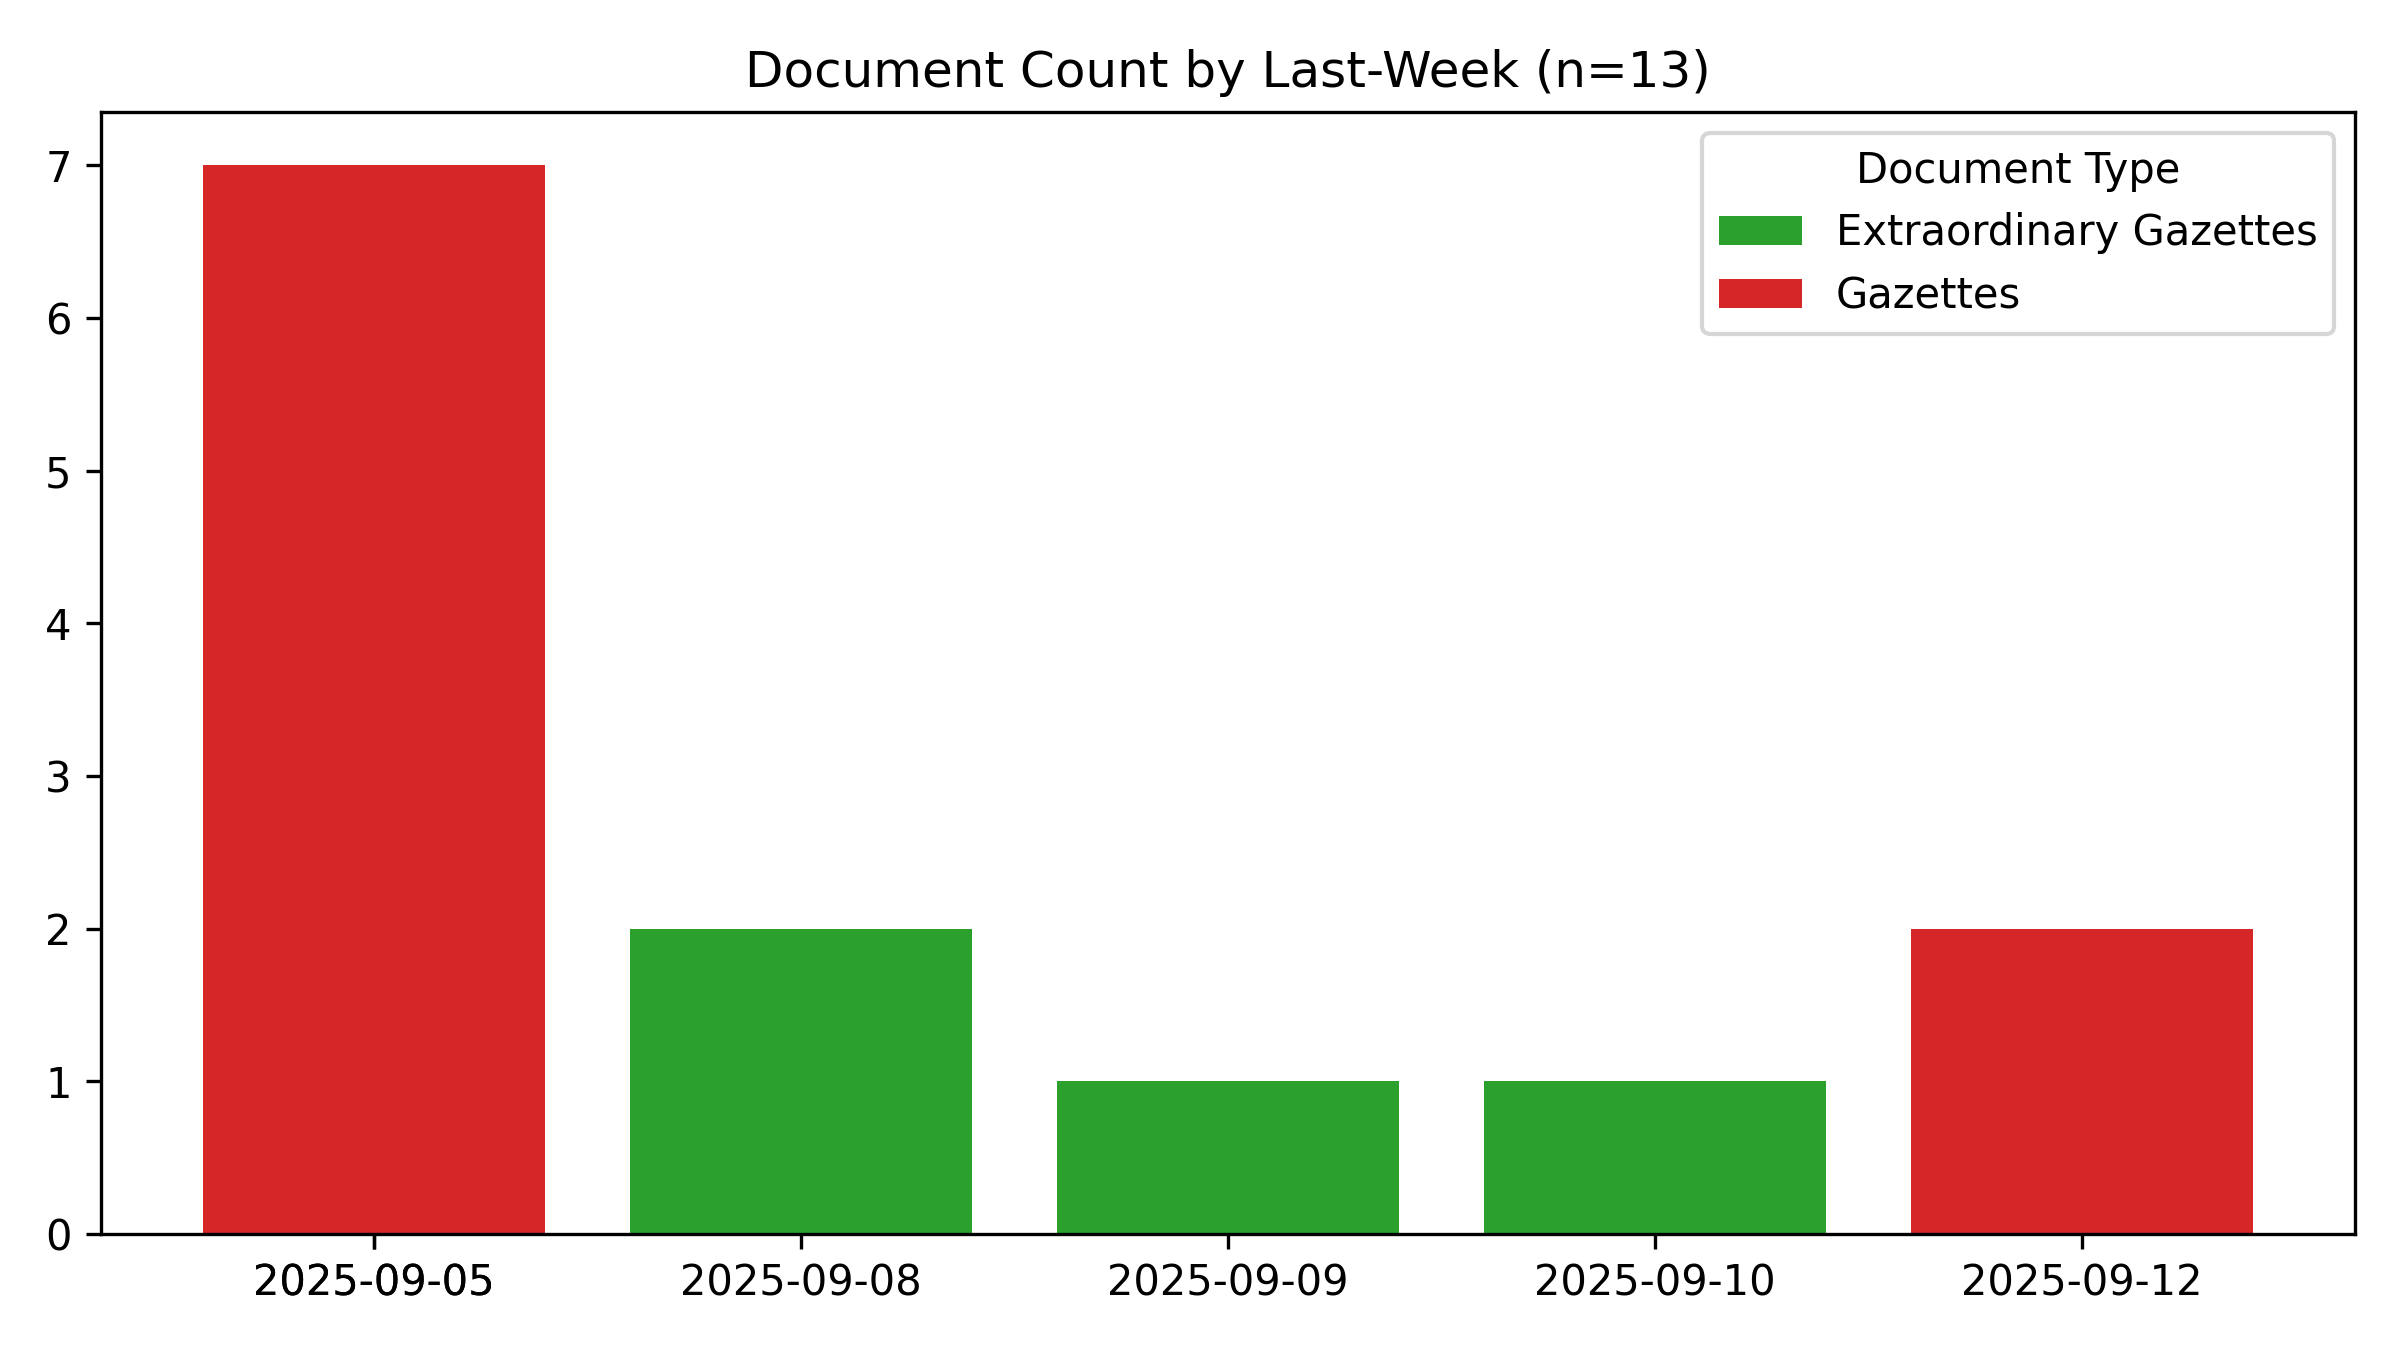
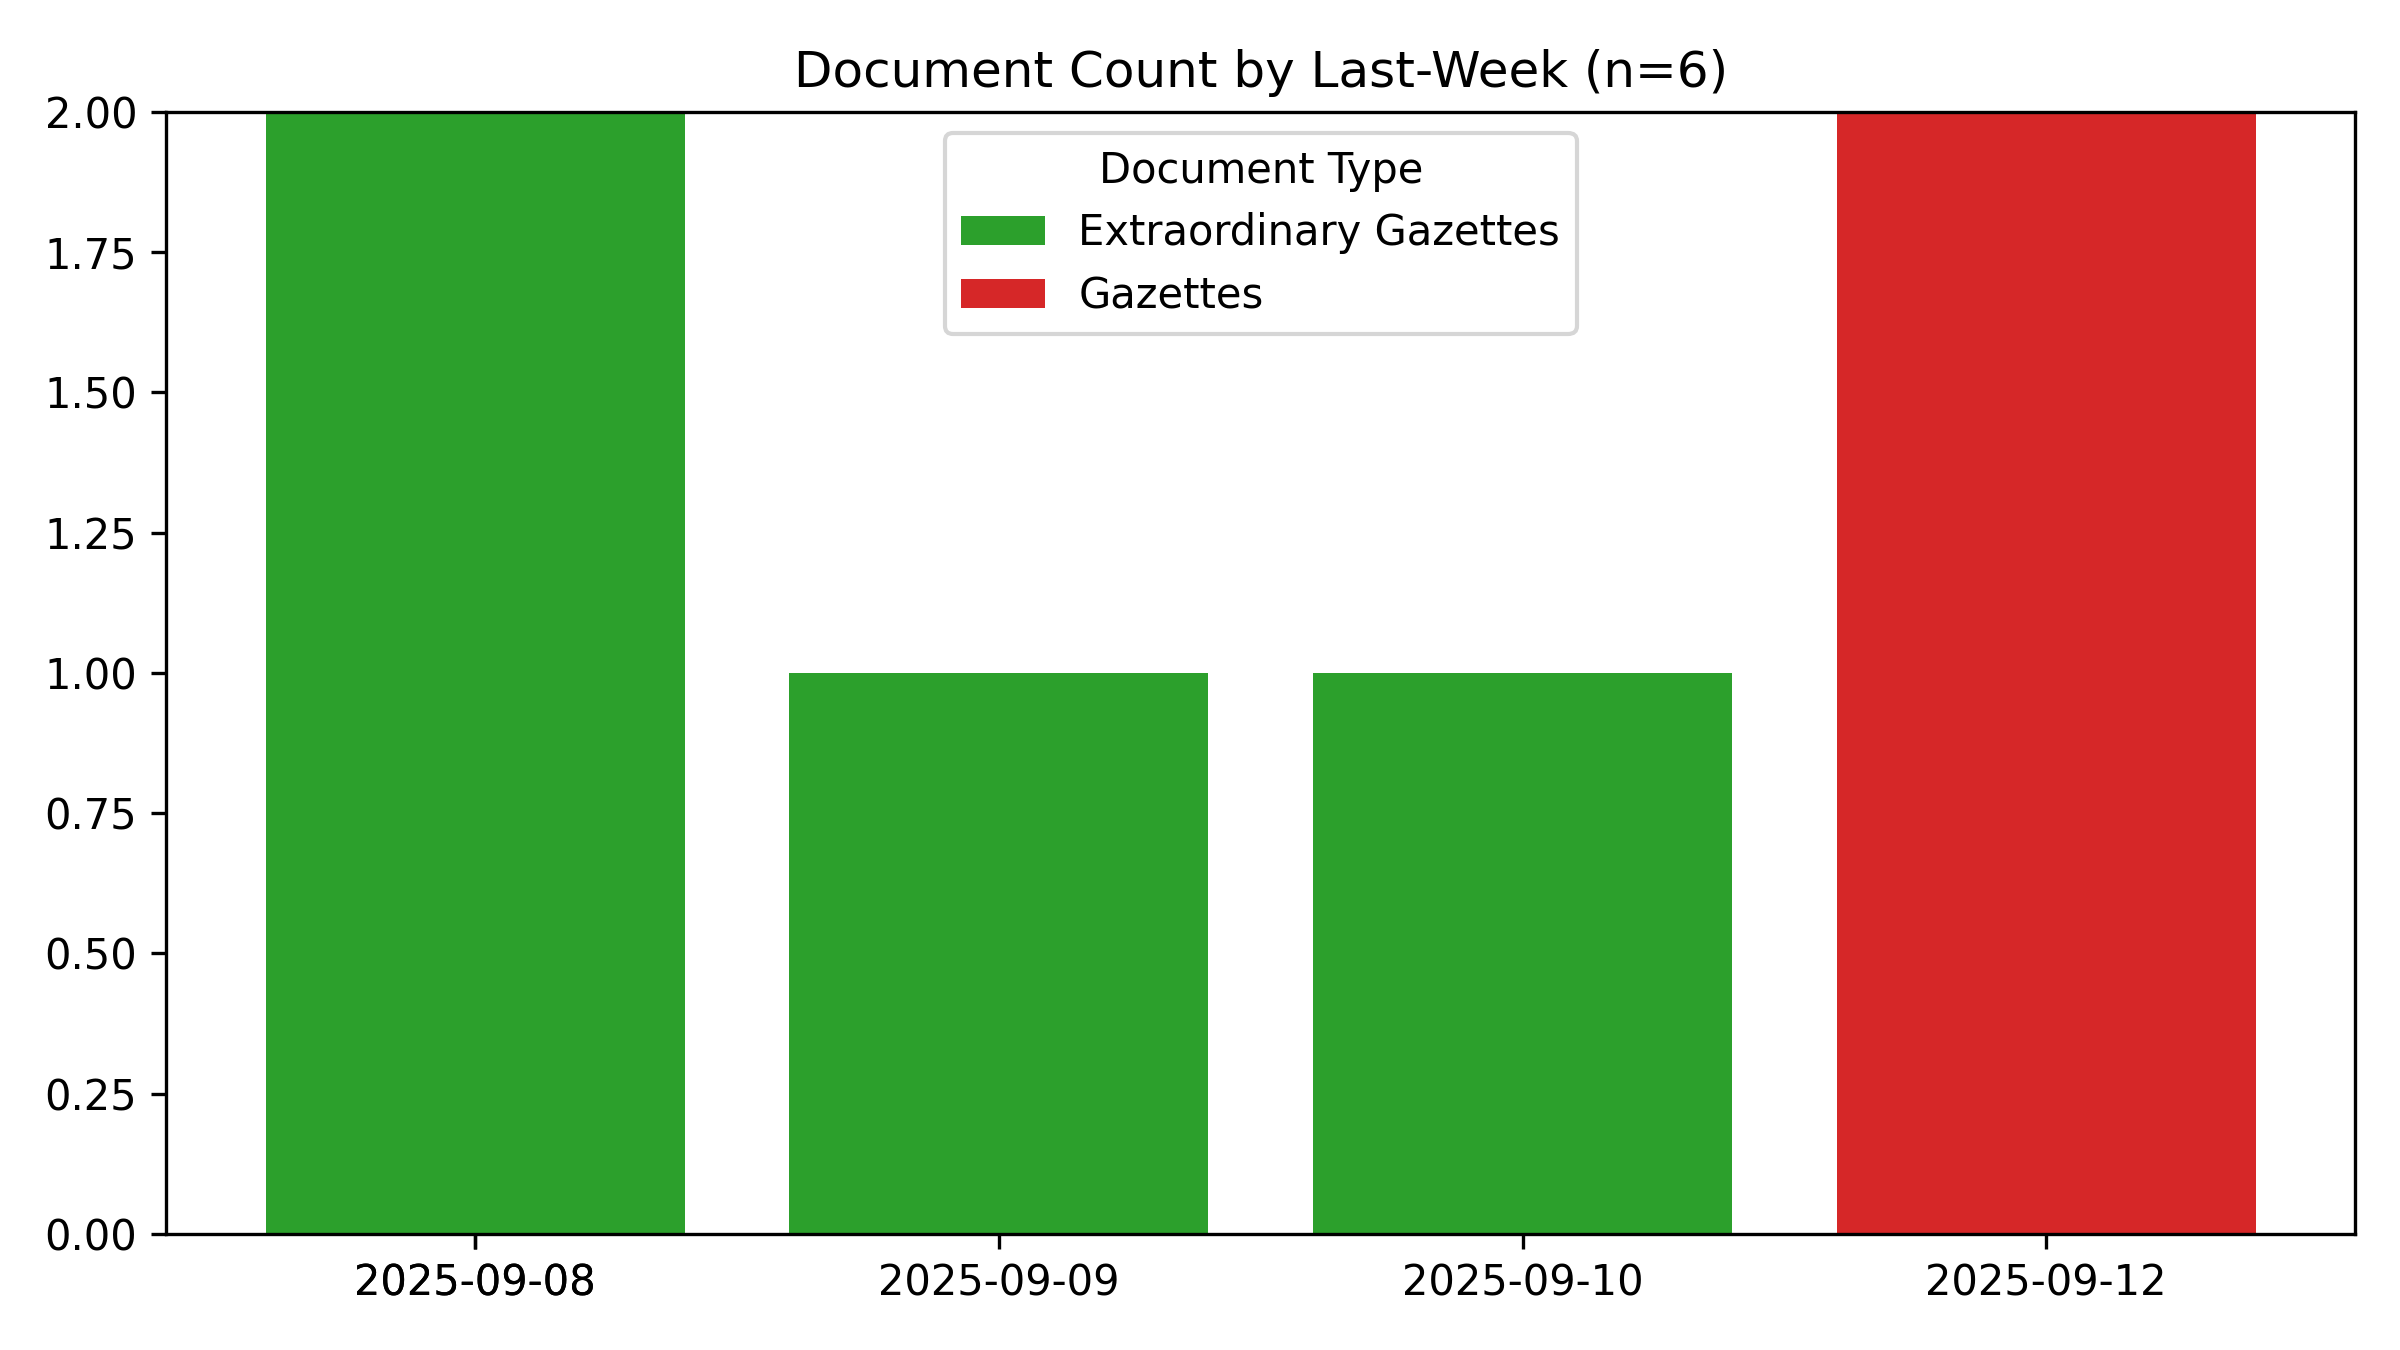
🤖 [build_readme.yml] 2025-09-13-0014

diff --git a/README.md b/README.md
@@ -1,6 +1,6 @@
 # #SriLanka 🇱🇰 - Legal Documents #Dataset
 
-*Last Updated **2025-09-13 05:12:36**.*
+*Last Updated **2025-09-13 05:43:52**.*
 
 **44,605** documents (24.4 MB), from 1981-01-22 to 2025-09-12.
 
@@ -54,7 +54,7 @@ For best results, use a desktop browser.
 
 ## Recent Documents (Published during the last 7 days)
 
-**13** Documents
+**6** Documents
 
 - 📢 [2025-09-12] [Legal Section](https://github.com/nuuuwan/lk_legal_docs_data/tree/data_2020s/data/gazettes/2025/2025-09-12-legal-section)
 - 📢 [2025-09-12] [(III) - TRADE MARKS AND PATENT NOTICES](https://github.com/nuuuwan/lk_legal_docs_data/tree/data_2020s/data/gazettes/2025/2025-09-12-iii-trade-marks-and-patent-notices)
@@ -62,10 +62,3 @@ For best results, use a desktop browser.
 - 🚨 [2025-09-09] [Public Utilities Commission of Sri Lanka - Revised Expenditure Budget - 2025](https://github.com/nuuuwan/lk_legal_docs_data/tree/data_2020s/data/extra-gazettes/2025/2453-16)
 - 🚨 [2025-09-08] [Election Commission - L. A. E. O. Notice Under Section 66A (1) Filling of a Vacancy in the office of members of the Akkaraipattu M/C](https://github.com/nuuuwan/lk_legal_docs_data/tree/data_2020s/data/extra-gazettes/2025/2453-14)
 - 🚨 [2025-09-08] [Sri Lanka Customs - Rates of Exchange with effect from 08.09.2025 to 14.09.2025](https://github.com/nuuuwan/lk_legal_docs_data/tree/data_2020s/data/extra-gazettes/2025/2453-01)
-- 📢 [2025-09-05] [Legal Section](https://github.com/nuuuwan/lk_legal_docs_data/tree/data_2020s/data/gazettes/2025/2025-09-05-legal-section)
-- 📢 [2025-09-05] [Land Section](https://github.com/nuuuwan/lk_legal_docs_data/tree/data_2020s/data/gazettes/2025/2025-09-05-land-section)
-- 📢 [2025-09-05] [IV (B) - Local Government](https://github.com/nuuuwan/lk_legal_docs_data/tree/data_2020s/data/gazettes/2025/2025-09-05-iv-b-local-government)
-- 📢 [2025-09-05] [(III) - TRADE MARKS AND PATENT NOTICES](https://github.com/nuuuwan/lk_legal_docs_data/tree/data_2020s/data/gazettes/2025/2025-09-05-iii-trade-marks-and-patent-notices)
-- 📢 [2025-09-05] [(IIB) - Advertising](https://github.com/nuuuwan/lk_legal_docs_data/tree/data_2020s/data/gazettes/2025/2025-09-05-iib-advertising)
-- 📢 [2025-09-05] [(IIA) - Advertising](https://github.com/nuuuwan/lk_legal_docs_data/tree/data_2020s/data/gazettes/2025/2025-09-05-iia-advertising)
-- 📢 [2025-09-05] [(I) - General](https://github.com/nuuuwan/lk_legal_docs_data/tree/data_2020s/data/gazettes/2025/2025-09-05-i-general)
